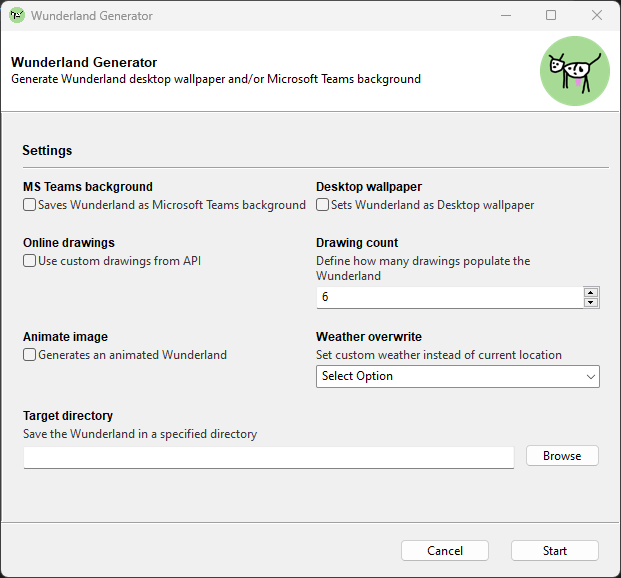
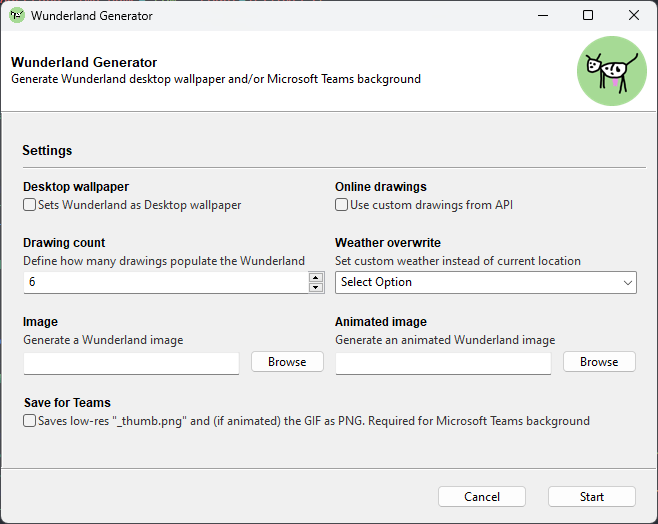
updated docs

diff --git a/wunderland_wallpaper.py b/wunderland_wallpaper.py
@@ -117,7 +117,7 @@ if len(sys.argv) >= 2:
         sys.argv.append('--ignore-gooey')
 
 
-@Gooey(default_size=(635, 585),
+@Gooey(default_size=(672, 531),
        program_name='Wunderland Generator',
        program_description='Generate Wunderland desktop wallpaper and/or Microsoft Teams background',
        image_dir=local_resource_path('gui'))

diff --git a/README.md b/README.md
@@ -43,13 +43,21 @@ You can also run the program on the command line (e.g. to use in a scheduled tas
 ```
 > wunderland-generator.exe [-h] [-t] [-d] [-o] [-c Drawing count] [-a] [-w Weather overwrite] [-p Target directory]
 ```
-| Parameter                               | Description                                                           |
-|-----------------------------------------|-----------------------------------------------------------------------|
-| -t, --teams                             | Saves Wunderland as Microsoft Teams background                        |
-| -d, --desktop                           | Sets Wunderland as Desktop wallpaper                                  |
-| -o, --online                            | Use custom drawings from API                                          |
-| -c Drawing count, --count Drawing count | Define how many drawings populate the Wunderland                      |
-| -a, --animated                          | Generates an animated Wunderland                                      |
-| -w Weather overwrite                    | Set custom weather instead of current location (check UI for options) |
-| -p Target directory                     | Save the Wunderland in a specified directory                          |
- 
+| Parameter                               | Description                                                                                                                                 |
+|-----------------------------------------|---------------------------------------------------------------------------------------------------------------------------------------------|
+| -d, --desktop                           | Sets Wunderland as Desktop wallpaper                                                                                                        |
+| -o, --online                            | Use custom drawings from API                                                                                                                |
+| -c Drawing count, --count Drawing count | Define how many drawings populate the Wunderland                                                                                            |
+| -a, --animated                          | Generates an animated Wunderland                                                                                                            |
+| -w Weather overwrite                    | Set custom weather instead of current location (check UI for options)                                                                       |
+| -p File path, --out-path File path      | Save the Wunderland image as a PNG file                                                                                                     |
+| -a File path, --animated-path File path | Save the Wunderland animated image as a GIF file                                                                                            |
+| -t, --teams                             | Makes the output image suitable to use in MS Teams. Saves a low-res "_thumb.png" copy. Renames the animated GIF to PNG so Teams can load it |
+
+
+## How to use the Teams background
+1. Find the directory where Microsoft Teams saves the backgrounds.
+    - old Teams: `C:/Users/<windows_user_name>/AppData/Roaming/Microsoft/Teams/Backgrounds/Uploads`
+    - new Teams: `C:/Users/<windows_user_name>/AppData/Local/Packages/MSTeams_8wekyb3d8bbwe/LocalCache/Microsoft/MSTeams/Backgrounds/Uploads`
+2. Run `wunderland_generator.exe` with the `--teams` option and save the image in the backgrounds directory
+    - ❗If the background is not showing up in Teams: You may have to overwrite an existing background that was added previously using the Teams app
